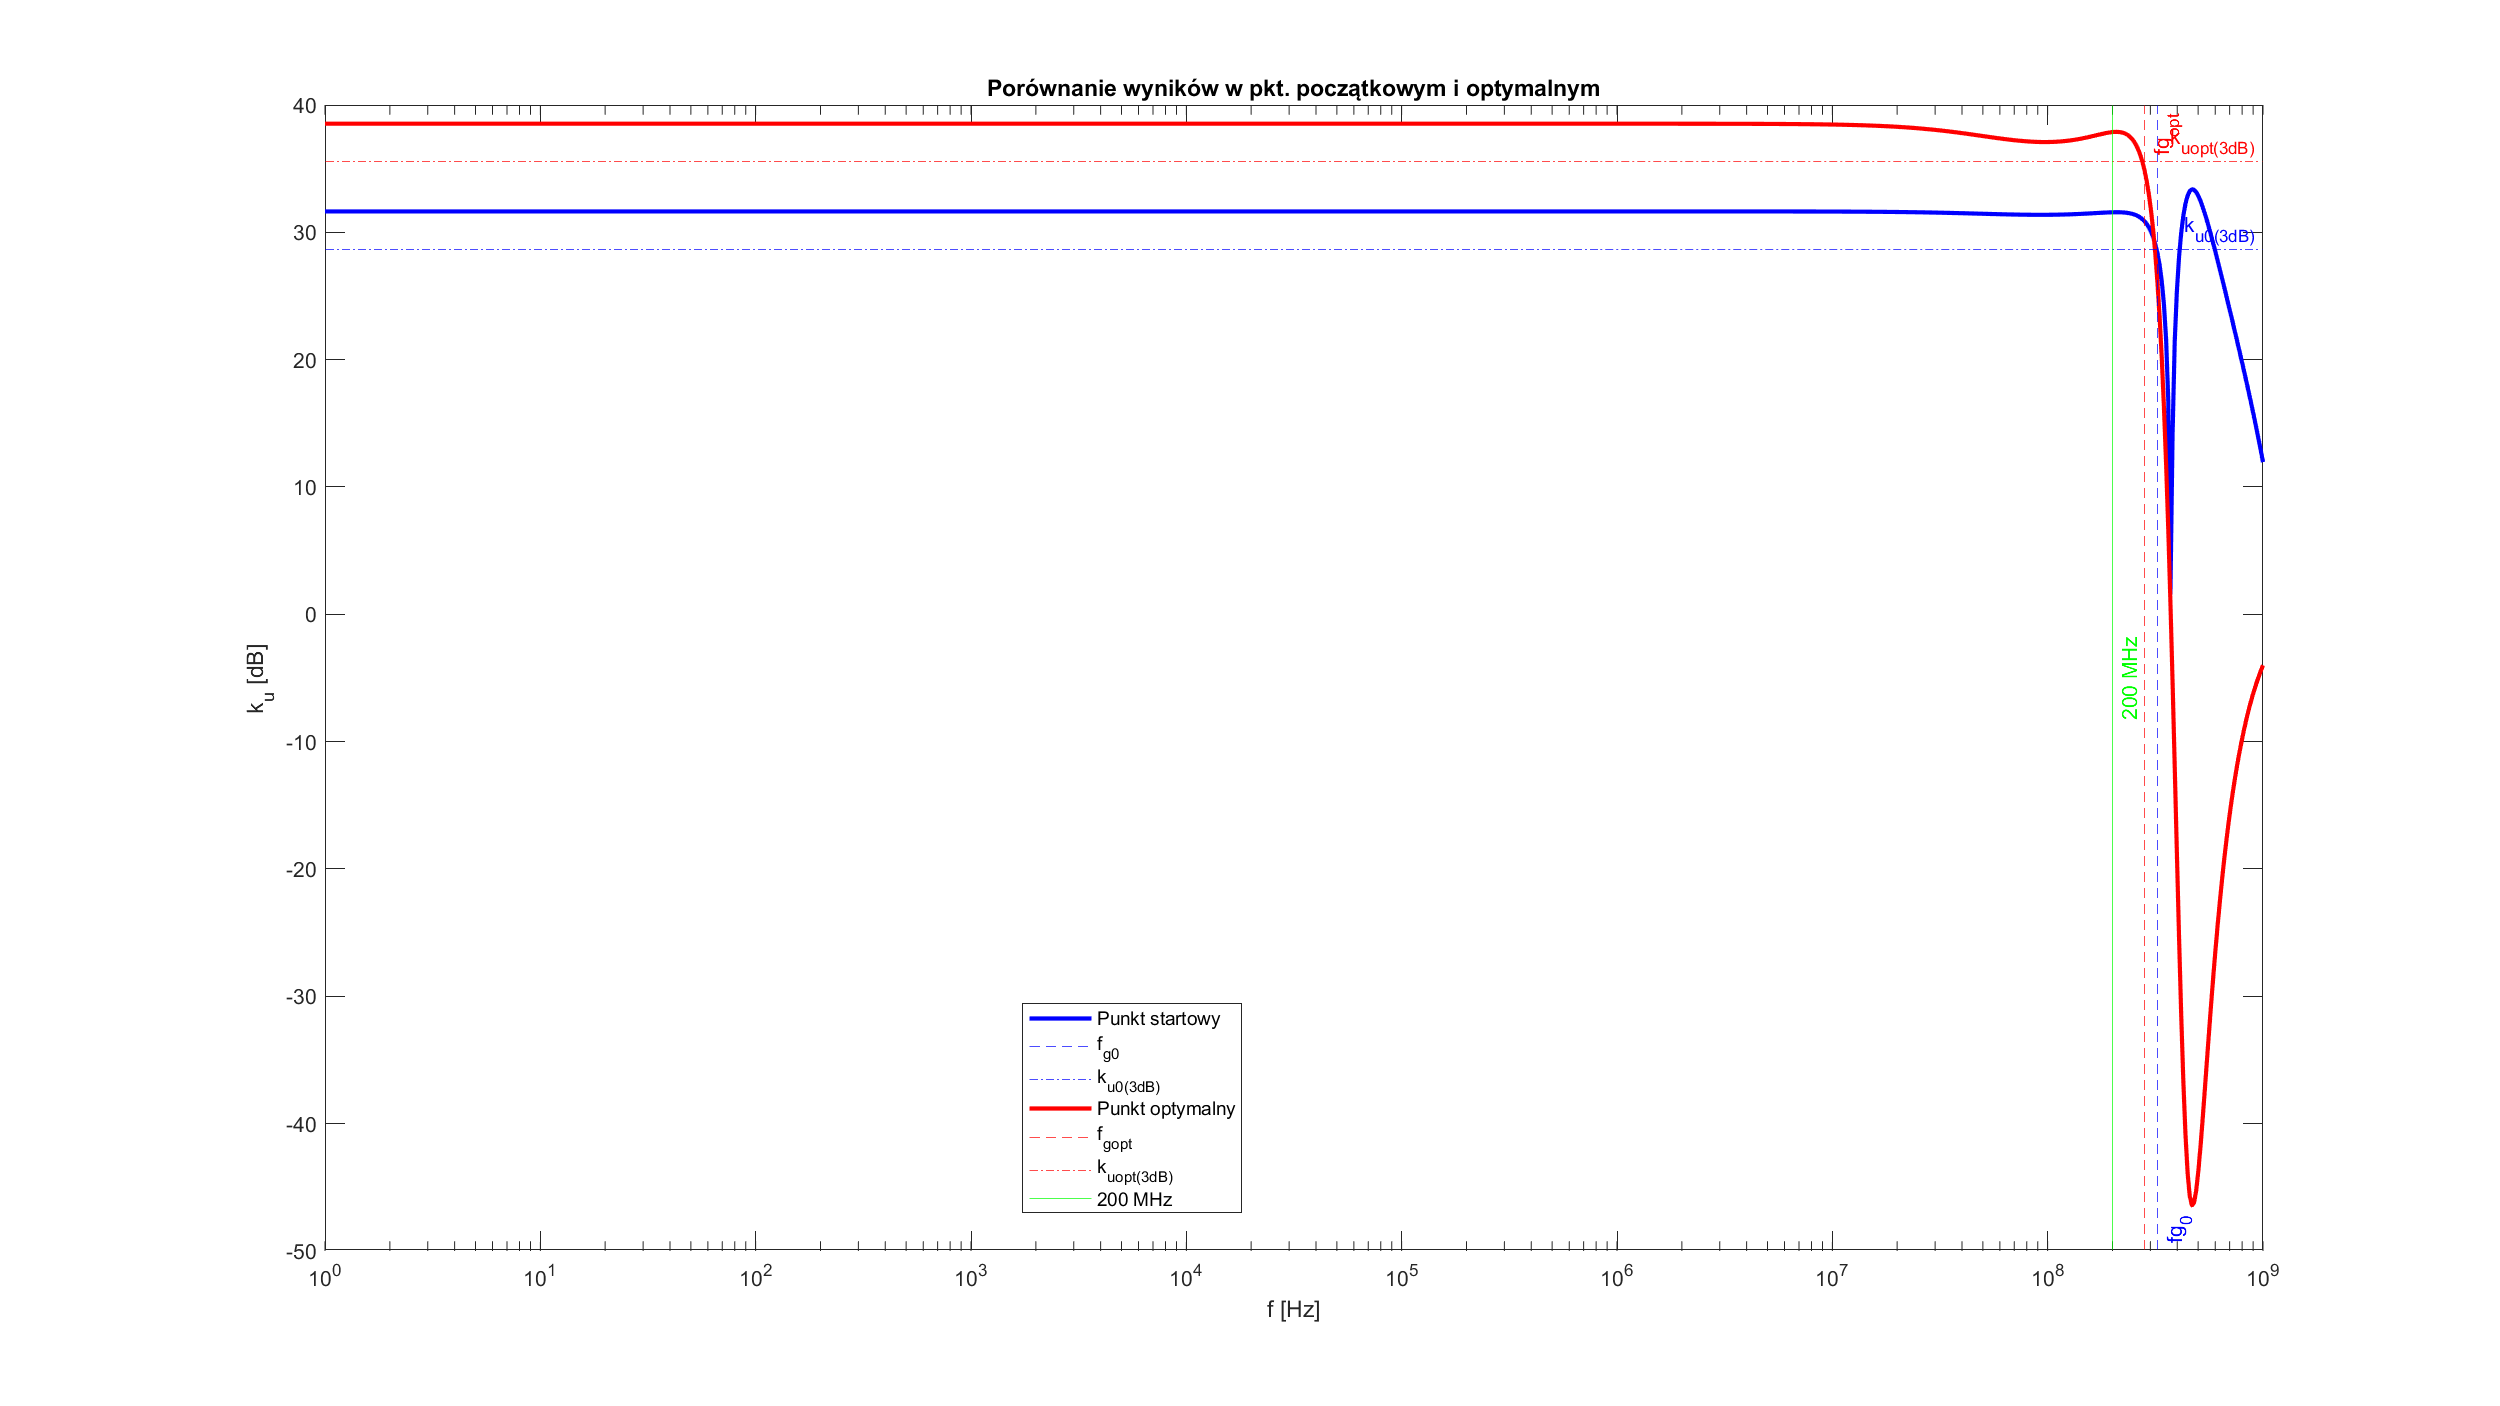
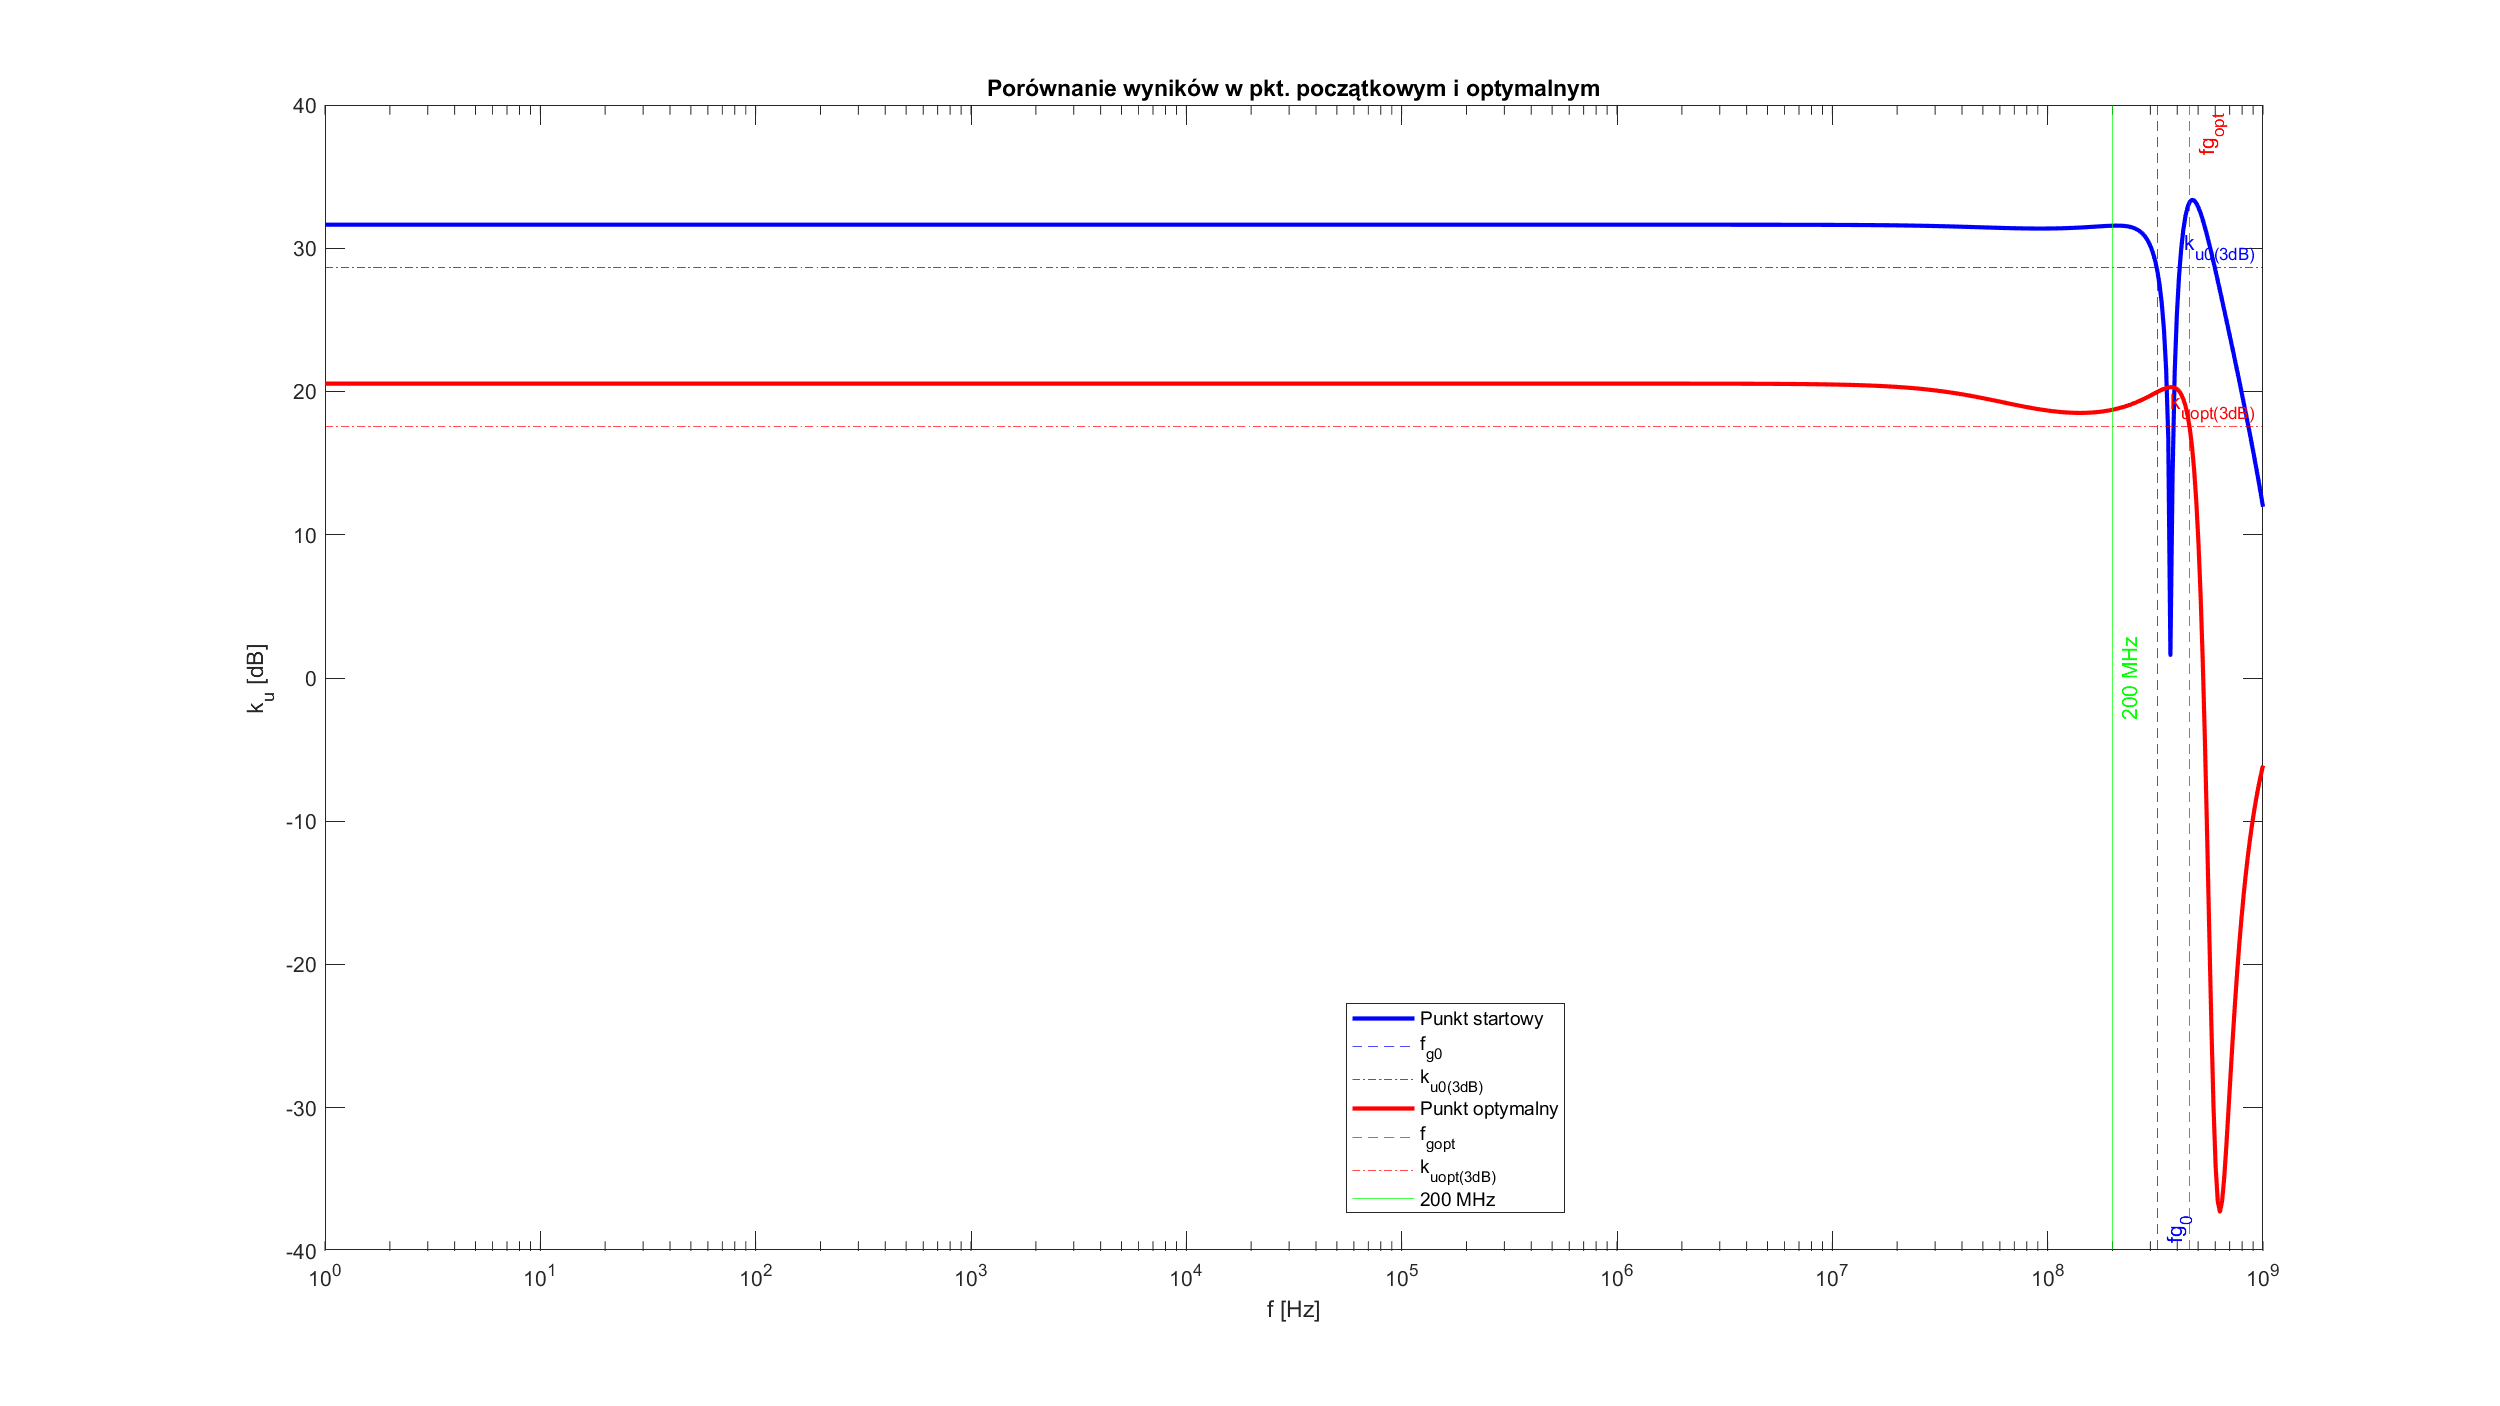
patternsearch

diff --git a/main.m b/main.m
@@ -1,8 +1,11 @@
 %% starting point results
 clear
 close all;
+%%
 %-----------------
 %x0=[25 20 15 100 230 135 370];
+x0=[50 40 15 100 230 90 370];
+
 %x0=[20.8297483895642,0.200000000000000,22.5000000000000,125,230,135,370]
 %x0=[15 8 15 20 230 120 270];
 %x0=[39     2    23   268   358   210   688];
@@ -10,12 +13,13 @@ close all;
 %points from pareto set
 %x0=[28.9229848492032,2,42.1878297848572,240.181815596788,370.303749261561,241.111417620530,997.688499801257];
 %best point from pareto
-x0=[41.7679147209104,0.0751112681817843,56.0812946983207,383.446514581162,302.534925272885,206.660424139118,1893.50663464421]
+%x0=[41.7679147209104,0.0751112681817843,56.0812946983207,383.446514581162,302.534925272885,206.660424139118,1893.50663464421]
 %pareto again (best so far)
 %x0=[41.0680233604586,0.200000000000000,20.9329004294496,139.388347648318,182.153860081774,123.742573067477,697.717622740244];
 %-----------------
 
-
+%method switch: 0=fmicon, 1=patternsearch;
+method_switch=1;
 
 out_ac=run_sim(x0,"kask4_ac");
 freq_0=out_ac.freq_vect;
@@ -49,11 +53,23 @@ xs2x=@ (x) x.*x0;
 lb=[0.01 0.01 0.01 0.01 0.01 0.01 0.01]; ub=[10 10 10 10 10 10 10];
 
 %% optimize
+
+if (method_switch==0)
 fun=@(xs) obj_fun(xs2x(xs));
 constr=@(xs) nonlcon(xs2x(xs));
 opts=optimoptions('fmincon','Display','iter-detailed','PlotFcn',{'optimplotfvalconstr','optimplotx'},'FinDiffRelStep',1e-5);
 xs_opt=fmincon(fun,x2xs(x0),[],[],[],[],lb,ub,constr,opts);
 x_opt=xs2x(xs_opt);
+end
+
+if(method_switch==1)
+opts = optimoptions('patternsearch','Display','iter','PlotFcn',{'psplotbestf','psplotmeshsize','psplotbestx'},'MaxTime',3600);
+fun=@(xs) obj_fun(xs2x(xs));
+constr=@(xs) nonlcon(xs2x(xs));
+[xs_opt]=patternsearch(fun,x2xs(x0),[],[],[],[],lb,ub,[],opts);
+x_opt=xs2x(xs_opt);
+end
+    
 %% optimal point results
 close all;
 out_ac=run_sim(x_opt,"kask4_ac");
@@ -91,8 +107,6 @@ end
 save("results/latest.mat");
 
 x_pareto_scaled=xs2x(x_pareto);
-
-
 display_results
 
 
